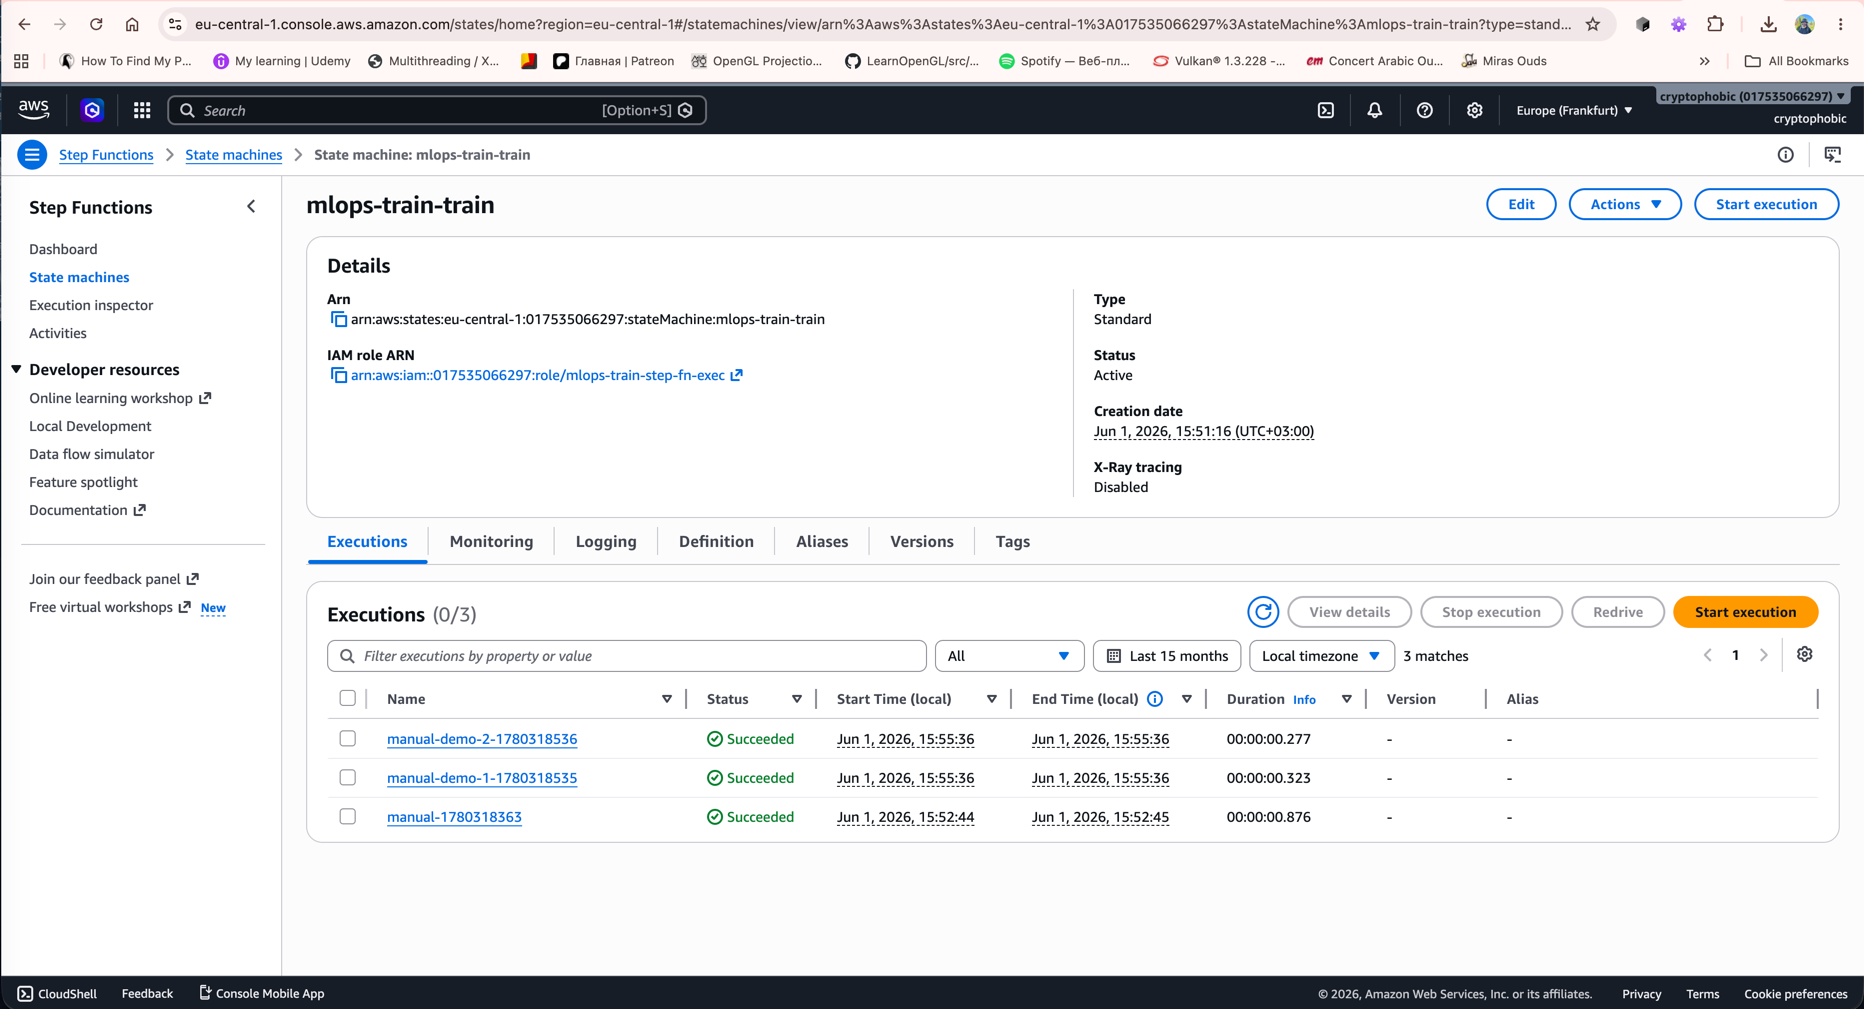
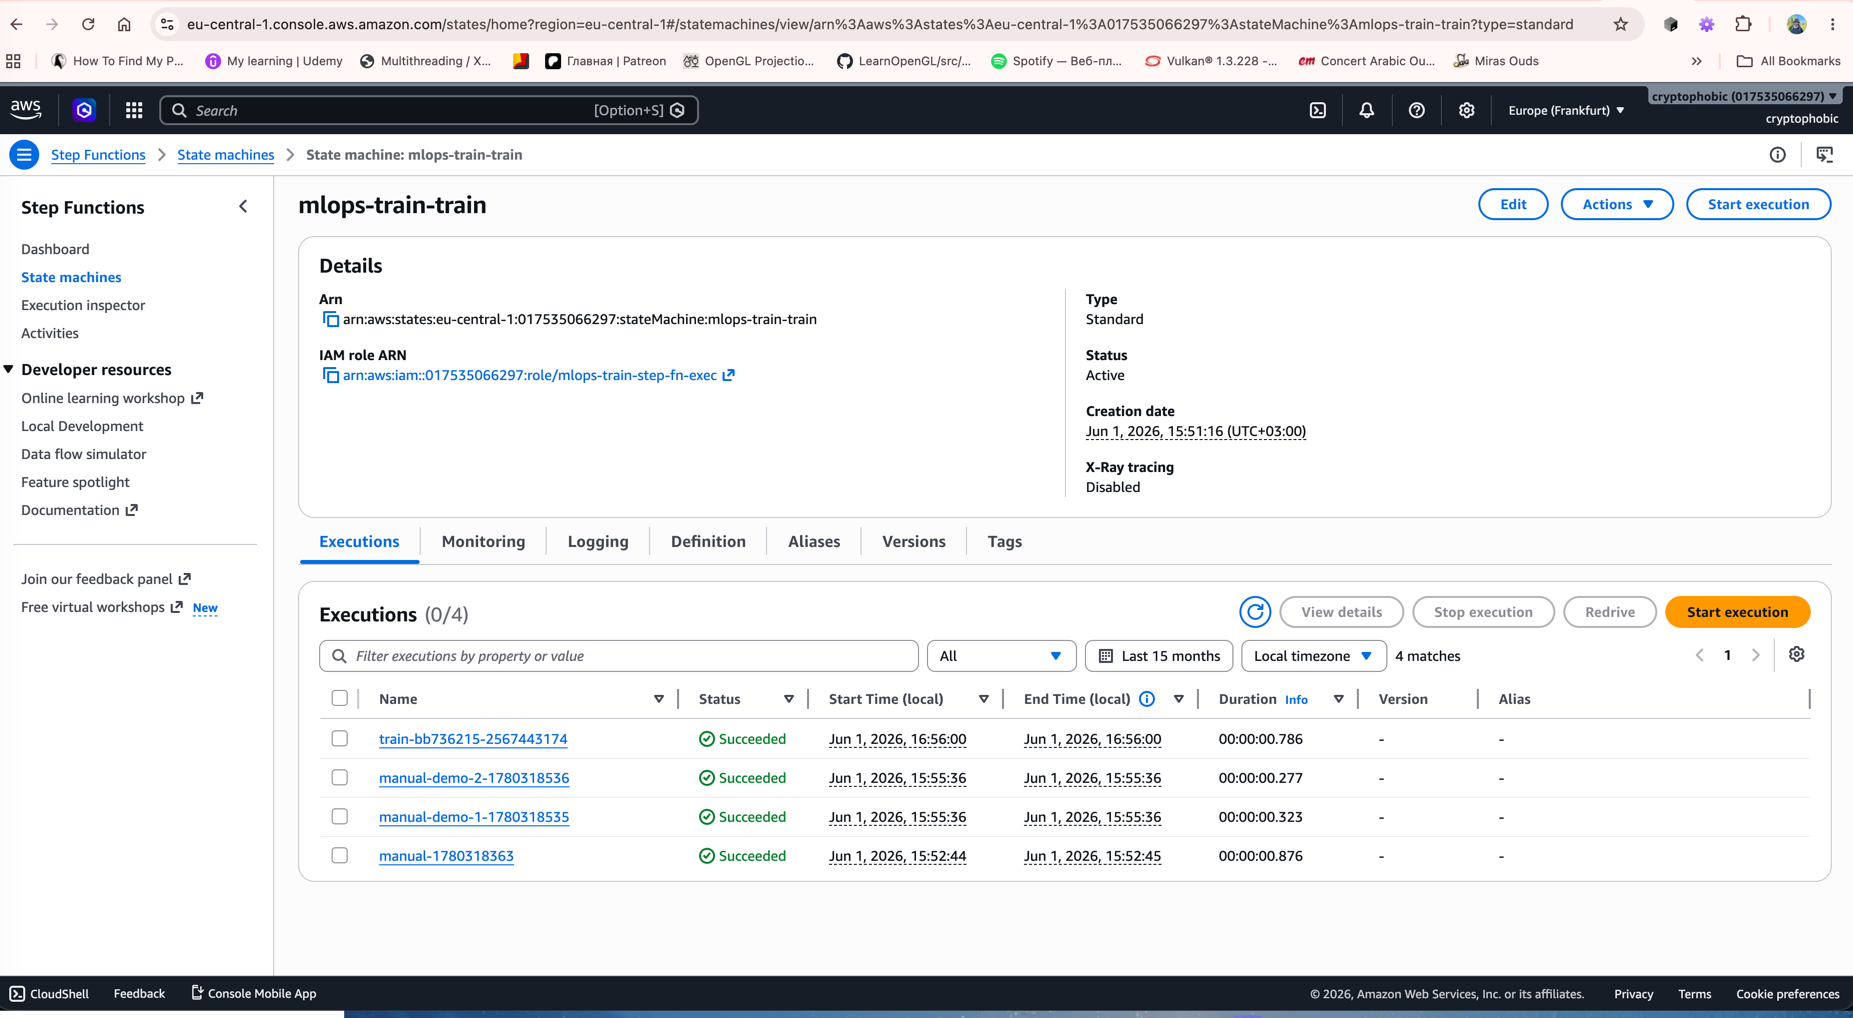
cleansing

diff --git a/PROOF.md b/PROOF.md
@@ -77,17 +77,15 @@ cryptophobic@Mac terraform % aws stepfunctions describe-execution \
 }
 ```
 
-## 4. Три execution-и підряд
+## 4. Список SUCCEEDED executions
+
+Три manual-и + один з GitLab CI:
 
 ```bash
 cryptophobic@Mac terraform % aws stepfunctions list-executions --region eu-central-1 \
-    --state-machine-arn "$SM_ARN" --max-items 5 \
+    --state-machine-arn "$SM_ARN" --max-items 10 \
     --query 'executions[].{name:name,status:status,start:startDate}'
-[
-    { "name": "manual-demo-2-1780318536", "status": "SUCCEEDED", "start": "2026-06-01T15:55:36.479000+03:00" },
-    { "name": "manual-demo-1-1780318535", "status": "SUCCEEDED", "start": "2026-06-01T15:55:36.005000+03:00" },
-    { "name": "manual-1780318363",         "status": "SUCCEEDED", "start": "2026-06-01T15:52:44.524000+03:00" }
-]
+# 4 рядки SUCCEEDED — 3 manual-демо та 1 з GitLab CI (train-<sha>-<pipeline>)
 ```
 
 ![Step Functions executions](images/sfn-executions.png)
